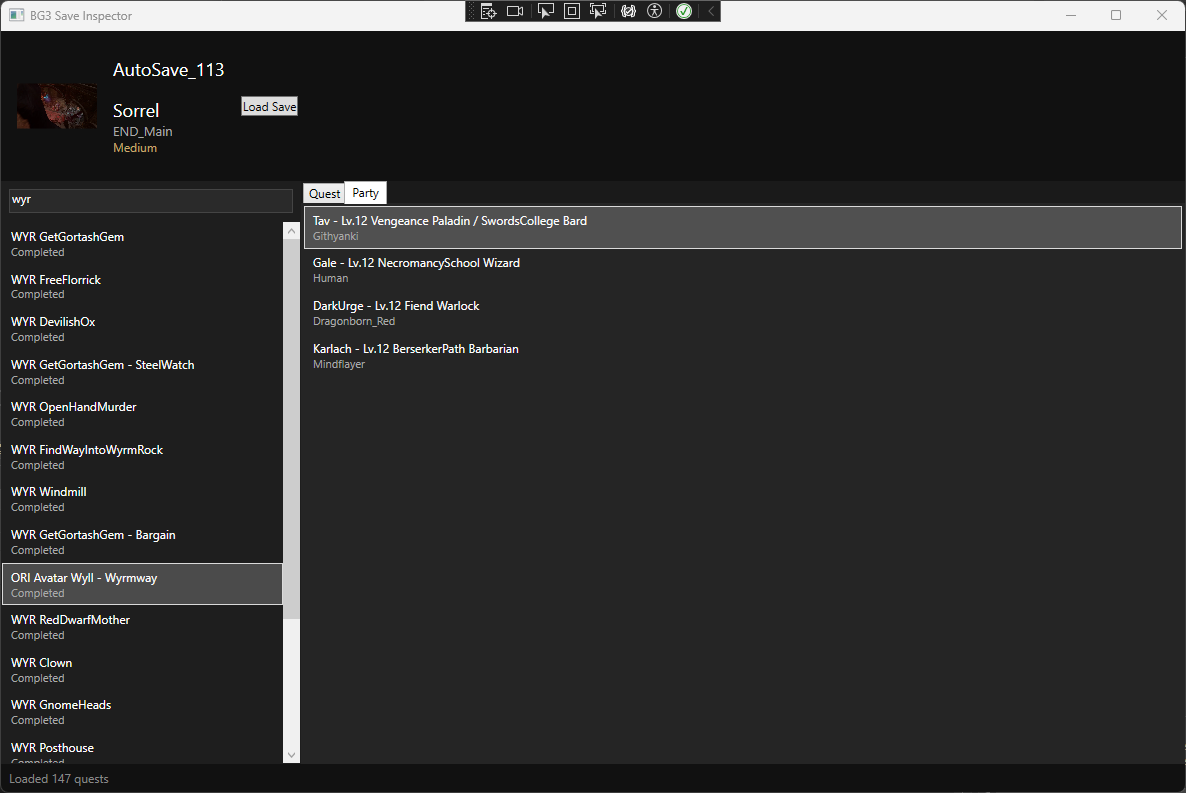
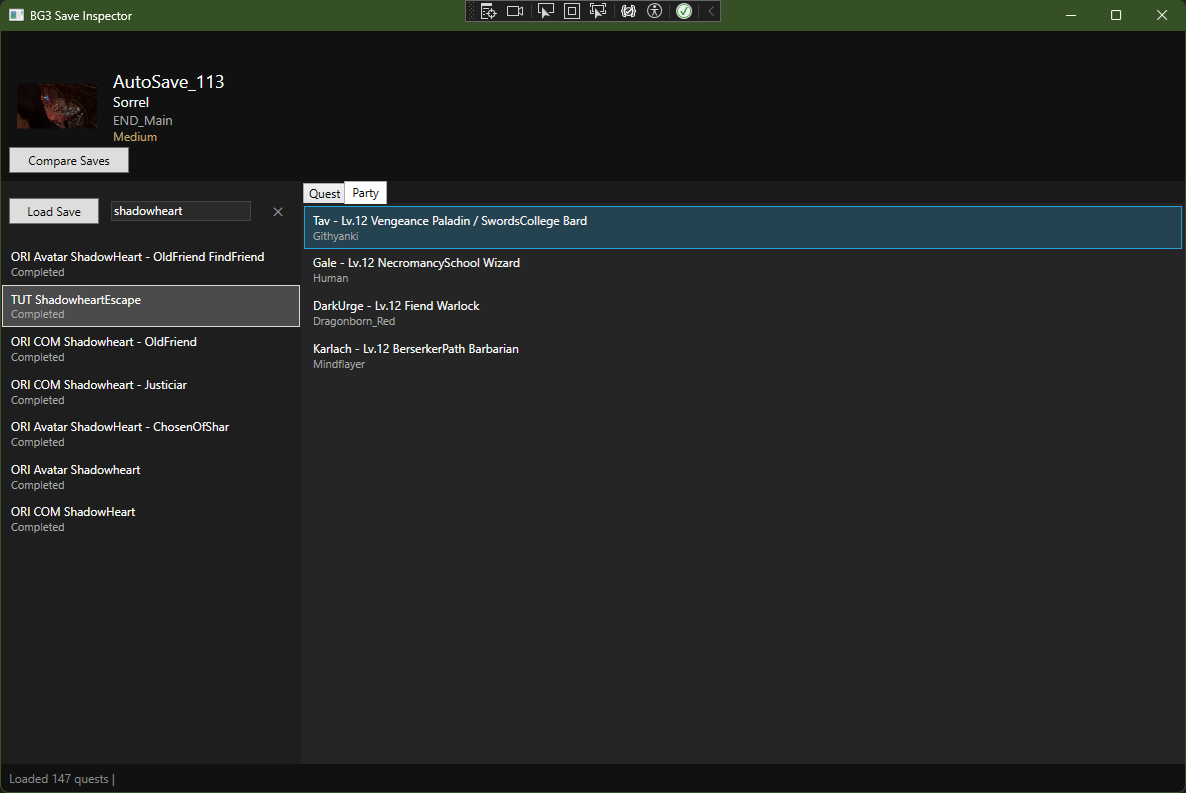
update README

diff --git a/README.md b/README.md
@@ -1,16 +1,17 @@
 # BG3 Save Inspector
 A Windows desktop tool for inspecting Baldur's Gate 3 save files without launching the game. Browse quest states, story flags, and playthrough progress from your '.lsv' save files.
 
-![quest flag view](res/bg3saveinspector.png)
-![party view BG3](res/bg3saveinspector1.png)
-
-## Feature
+## Features
 - Load any BG3 save file (.lsv)
 - Browse quest log with objective and stepID
 - Search and filter quests
 - Select a quest to view detailed state
 - View save metadata - character name, class, difficulty, thumbnail
 - Browse active party composition
+
+![quest flag view](res/bg3saveinspector.png)
+![party view BG3](res/bg3saveinspector1.png)
+![diff tool](res/bg3saveinspector2.png)
 
 ## Requirements
 - Win 10/11
